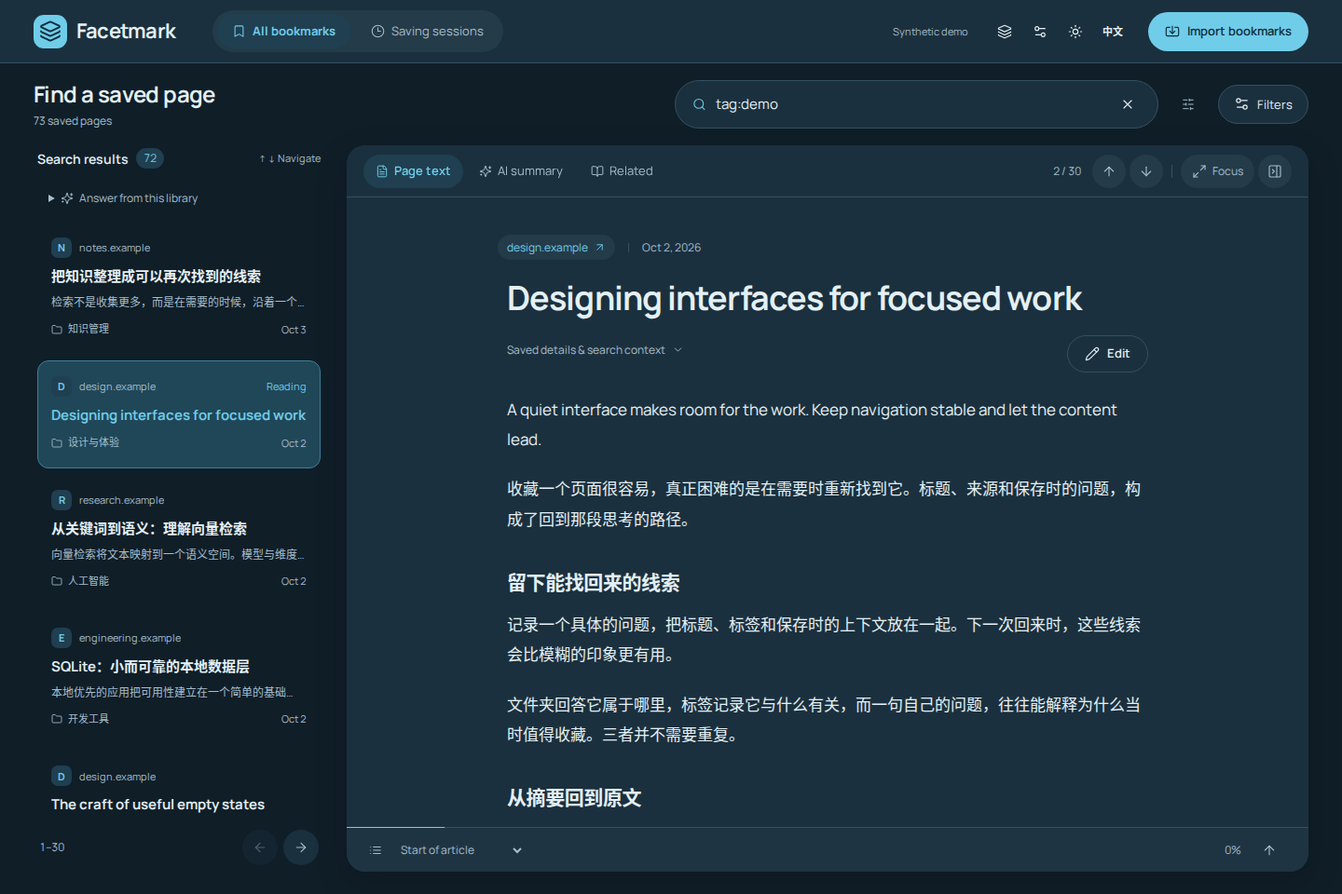
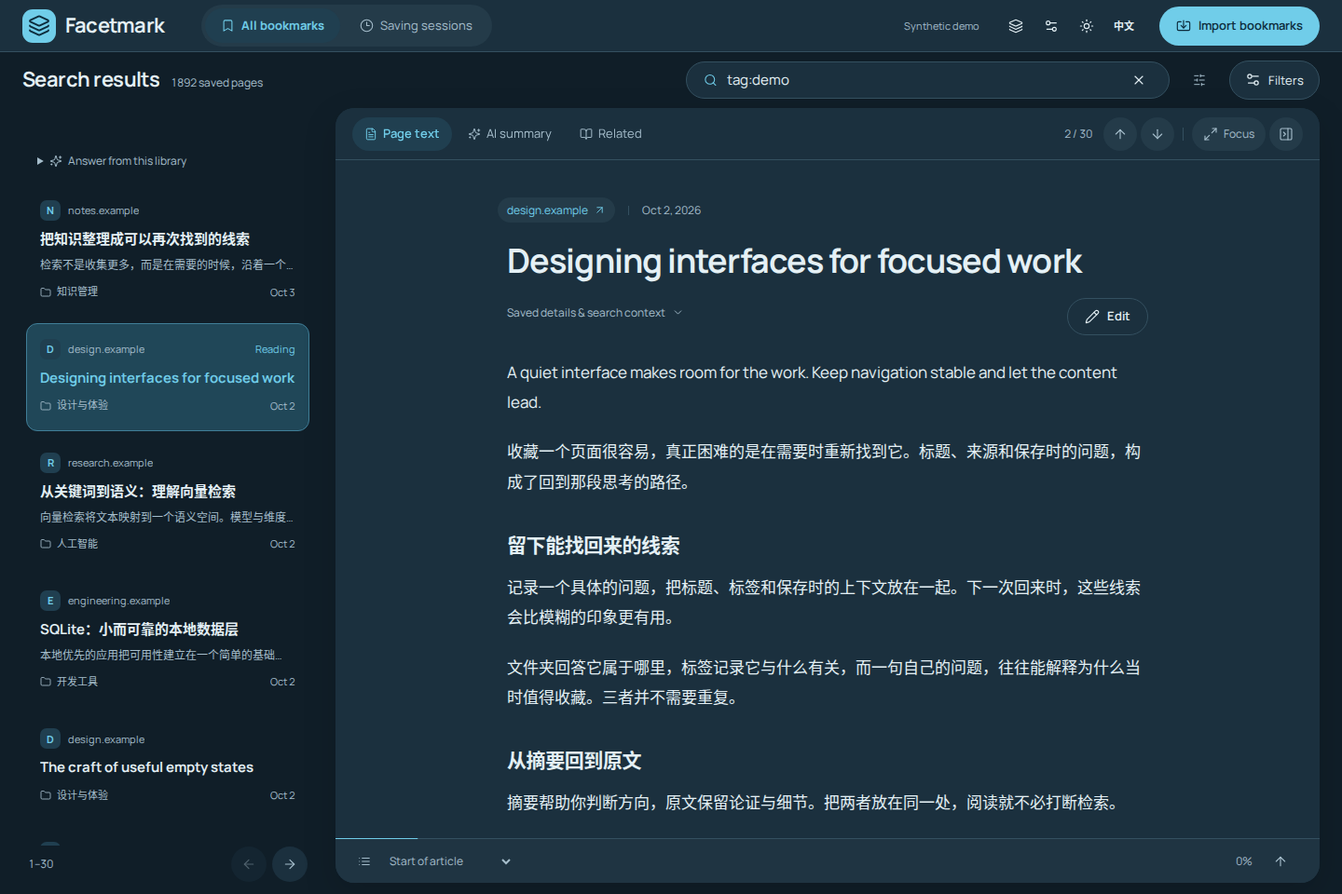
docs: record verified collection fixes and refresh previews [skip ci]

diff --git a/docs/desktop-validation.md b/docs/desktop-validation.md
@@ -1,6 +1,114 @@
 # Desktop experience validation
 
-## 2026-10-08: collection management, reading tasks and shared-folder sync (current)
+## 2026-10-10: large-collection usability correction
+
+The user rejected the previous collection layout: oversized upper controls left
+only about half the window for bookmarks, and horizontal categories were
+inconvenient with a mouse. Its historical review verdict is not current acceptance.
+
+Current application and browser-test source: `09ab0332c5f9ec40627afc7f48f3da2ce0b8b36b`.
+The correction adds compact upper controls, a complete searchable vertical
+folder/tag/site directory, explicit category pagination and persistent card/list
+choice. Search reaches the whole category directory, with exact matches before
+prefixes and substrings, stable ordering and pages of 50. It fixes repeated-category/
+query cancellation, real scroll/page/reader reset on scope changes and stale-result
+selection/export during loading or failure. Repeated Enter and IME completion
+settle correctly; opening and returning from the same result retain browsing context.
+
+All final runs completed on 2026-10-09 against the source above:
+
+- [Experience 37927920369](https://github.com/88lin/facetmark/actions/runs/37927920369):
+  all three jobs passed, including **37/37 Playwright**, **2003 Python passed /
+  1 skipped**, Ruff, TypeScript/Vite, wheel/sdist resources, Docker and extension.
+- [CI 37927928123](https://github.com/88lin/facetmark/actions/runs/37927928123):
+  **all ten jobs passed** across Linux/Windows × Python 3.10/3.12, browser,
+  web UI, extension, Karakeep contract, wheel and Docker. The real MCP stdio
+  check passed **22/22**.
+- [Visual artifact 11615446805](https://github.com/88lin/facetmark/actions/runs/37927920369/artifacts/11615446805):
+  **51 actual captures**, a **14.24-second H.264 recording**, WEBM, font/scroll
+  diagnostics and exact source/run provenance. All 51 capture hashes were verified.
+  Local evidence: `.desktop-build/collection-verified`. The four landing screenshots
+  retain the source raster chunks and carry embedded origin metadata.
+- [Windows 37927920467](https://github.com/88lin/facetmark/actions/runs/37927920467):
+  all checks passed. Installation began with WebView2 absent and installer networking
+  blocked. The installed WebView imported synthetic HTML, searched, displayed the
+  correct missing-body reader state and preserved the query on return. Same-version
+  reinstall, uninstall data retention, parent-process cleanup and isolated frozen
+  service checks also passed. Three installed 1028×749 screenshots were inspected;
+  diagnostics identify `09ab033`.
+  [Unsigned x64 installer](https://github.com/88lin/facetmark/actions/runs/37927920467/artifacts/11615112516)
+  and [small installed evidence](https://github.com/88lin/facetmark/actions/runs/37927920467/artifacts/11614867739)
+  are available. The installer itself is **279209682 bytes** and was not downloaded.
+  Valid local installed evidence is `.desktop-build/collection-windows-37927920467`;
+  the older `.desktop-build/collection-windows` directory is mixed/stale and excluded.
+
+Final CI Python matrix (all jobs passed; skips vary by platform/runtime):
+
+| Platform | Python | Passed | Skipped |
+| --- | --- | ---: | ---: |
+| Linux | 3.10 | 2002 | 2 |
+| Linux | 3.12 | 2003 | 1 |
+| Windows | 3.10 | 1972 | 32 |
+| Windows | 3.12 | 1973 | 31 |
+
+The synthetic corpus contains **1892 bookmarks and 295 folders**, including long
+names, and saved pages with and without body text. The six added browser scenarios
+cover compact short-window layouts, complete category access by mouse and keyboard,
+search beyond the former 200-category limit, card/list persistence, slow/repeated
+queries, failed scopes, export safety and reading return context. Existing management,
+sync, model, import, reading and theme/language tests remain in the 37-test suite.
+
+Measured card view from `collection-density.json`; counts exclude partly visible cards:
+
+| Viewport | List top | First card top | List height | Height share | Fully visible cards |
+| --- | ---: | ---: | ---: | ---: | ---: |
+| 1440×960 | 160px | 163px | 748px | 77.9% | 16 |
+| 1366×768 | 160px | 163px | 556px | 72.4% | 9 |
+| 1280×600 | 160px | 163px | 388px | 64.7% | 6 |
+| 1024×749 | 160px | 163px | 537px | 71.7% | 6 |
+| 390×844 | 215.7px | 218.7px | 580.3px | 68.8% | 3 |
+
+No tested viewport has horizontal document overflow. Desktop and mobile card/list,
+category search/drawer, reader and language/theme captures were inspected. Measurements
+describe this synthetic corpus and viewport set, not every title length or real library.
+
+The first browser pass on `c4d5886` passed 34/37: exact category names were buried
+after 50 substring matches. `09ab033` fixes relevance ordering and passes the same
+assertions. That superseded run and `.desktop-build/collection-first-review` are not
+final evidence. Local targeted backend verification passed 25 workbench tests and Ruff.
+After the screenshot refresh, both lightweight landing image-reference checks passed.
+
+The fresh independent rejection review identified six material issues: upper-space
+budget, complete category access, repeated-request correctness, scope scroll/reader
+reset, stale-result action safety, and realistic data/current documentation. The
+final scored confirmation marked **all six resolved**, with **remaining clear** and
+`disposition: ship`, limited to those six corrections. No material regressions from
+the fix batch were observed. The reviewer directly inspected 12 original screenshots
+(short desktop/mobile, category/list, keyboard, reader, dark, loading and failure),
+provenance, density/scroll records, related source/tests, the Experience log and
+Windows reader/lifecycle JSON. It did not run the application or tests itself.
+
+The specialized review role was unavailable; the original confirmation and its
+replacement initially failed on model rate limits. A general independent replacement
+reviewer completed this confirmation after recovery. The verdict does not constitute
+user aesthetic acceptance. No approved pixel comp or external QUALITY BAR was
+supplied; GithubStarsManager is an interface reference only.
+
+DESIGN.md, the surface contract, management instructions and screenshot provenance
+track the corrected interface and final evidence. Documentation/image-only commits
+after `09ab033` do not alter the tested application or test source.
+
+Builds, browsers, packaging and installation ran in Actions. Local work was source
+editing, lightweight checks and small evidence retrieval; no personal profile,
+real bookmarks or local installer execution was used. Actual cloud-drive transport,
+external model services and Windows 10/11 hardware remain outside verification.
+The unsigned preview uses manual updates; hosted Windows Server checks do not
+certify signing trust, ordinary non-administrator behavior, cross-version upgrades
+or physical whole-machine disconnection. Artifacts expire after 14 days. The
+[existing PR #44](https://github.com/88lin/facetmark/pull/44) stays a draft, without
+main merge, release or Pages deployment. Earlier sections are historical.
+
+## 2026-10-08: collection management, reading tasks and shared-folder sync (historical)
 
 Application source: `33ff0df5340b31061434deb7e341c612e22feae1`.
 Final browser/test source: `f757f33e00a0a3582e4b656865bddd51d3d4f445`.

diff --git a/.impeccable/surfaces/frontend.md b/.impeccable/surfaces/frontend.md
@@ -27,7 +27,7 @@ OWN-WORLD: Pure white, pale blue workspace, deep blue ink, lake-blue interaction
 
 FIRST VIEWPORT: A 56px app header and 60px desktop collection toolbar contain the 22px title/count and 40px search. A 208px category directory appears from 960px, beside an auto-fill grid of at least 270px cards with 12px gaps and 14px padding. Below 960px categories are in the filter drawer. Creation, selection, organization, export and card/list switching share a compact action row. Mobile title/search stack with 12px outer space. The initial collection must leave at least 63% of a short desktop viewport, and 58% of the tested mobile viewport, for the scrolling bookmark list. Test 1366×768, 1280×600 and 390×844 with 1892 synthetic records.
 
-CATEGORIES: Folders, tags and sites share a searchable directory. Real counts, wrapping long names, a native vertical scrollbar, mouse-wheel access, keyboard focus and explicit pagination of 50 make all categories reachable. The search reaches beyond the former 200-category overview limit. Loading, empty and failure/retry states are visible. Category changes reset the real results scroll/page and close old reading content. Repeated selection cannot strand a cancelled request.
+CATEGORIES: Folders, tags and sites share a searchable directory. Real counts, wrapping long names, a native vertical scrollbar, mouse-wheel access, keyboard focus and explicit pagination of 50 make all categories reachable. The search reaches beyond the former 200-category overview limit and ranks exact matches first, followed by prefixes and other literal substring matches, with stable alphabetical ordering within each group. Loading, empty and failure/retry states are visible. Category changes reset the real results scroll/page and close old reading content. Repeated selection cannot strand a cancelled request.
 
 RESULT STATES: New queries/categories are associated with their exact loaded result context. Old rows cannot appear selectable or exportable under a new category while loading or after failure. Repeated Enter and IME completion reliably settle. Preserve query, category, page, real list position and focus when opening/returning from a result. Persist card/list preference across reloads.
 
@@ -41,4 +41,10 @@ FINISH: unreviewed and undocumented is unfinished; this build ends with the fini
 
 VERIFY: Use synthetic data and GitHub Actions for builds, browsers, packaging and installation. Local work is source editing, lightweight checks and small evidence retrieval. Verify short windows, many/long categories, mouse and keyboard operation, slow/repeated queries, failed new scopes, scoped export safety, card/list persistence and reader return context. Associate evidence with exact source, perform one batched inspection and a bounded independent confirmation. Never use personal browser profiles or actual bookmarks.
 
-EVIDENCE: Implementation and cloud validation are in progress. The fresh rejection review returned fix with six items: top-space budget, complete category access, repeated-request correctness, scroll/reader scope reset, stale-result action safety and realistic data/documentation. Earlier collection-management evidence (application 33ff0df5340b31061434deb7e341c612e22feae1, tests f757f33e00a0a3582e4b656865bddd51d3d4f445, Experience 37774845284) describes the rejected layout only.
+EVIDENCE: Documentation confirmed on 2026-10-10; cloud validation ran on 2026-10-09 against application and browser-test source 09ab0332c5f9ec40627afc7f48f3da2ce0b8b36b. `.desktop-build/collection-verified/provenance.json` identifies 51 captures and a 14.24-second reading recording, using 1892 synthetic bookmarks and 295 folders. The current collection-1366x768, collection-390x844 and collection-category-search captures were inspected for this documentation pass.
+
+MEASUREMENTS: `.desktop-build/collection-verified/collection-density.json` records 1366×768: first card y=163, list height 556px (72.4%), 9 complete cards; 1280×600: y=163, height 388px (64.7%), 6 cards; 390×844: y=218.6875, height 580.3125px (68.8%), 3 cards. The 1440×960 and 1024×749 views show 16 and 6 complete cards respectively. None of the five measured views has horizontal document overflow. These are initial unfiltered-view measurements, not minimums for every search or content state.
+
+VALIDATION: [Experience 37927920369](https://github.com/88lin/facetmark/actions/runs/37927920369) passed 37 browser tests and 2003 Python tests, with 1 Python skip. [CI 37927928123](https://github.com/88lin/facetmark/actions/runs/37927928123) passed all 10 jobs, including MCP 22/22. [Windows 37927920467](https://github.com/88lin/facetmark/actions/runs/37927920467) passed offline installation, actual WebView rendering, same-version reinstall, retained user data and process cleanup; its small evidence bundle is `.desktop-build/collection-windows-37927920467`. Hosted Windows Server smoke does not certify Windows 10/11.
+
+REVIEW STATUS: The rejection review returned fix with six items: top-space budget, complete category access, repeated-request correctness, scroll/reader scope reset, stale-result action safety and realistic data/documentation. Implementation, cloud validation and this bounded documentation confirmation are complete. Final independent confirmation returned `disposition: ship`: all six fixes are resolved, remaining findings are clear, and no material regression was identified within that scope. The original reviewer and an earlier replacement were rate-limited; a general independent substitute completed the confirmation because the dedicated role was unavailable. It inspected 12 raw captures, provenance, density and scroll evidence, relevant source/tests, the Experience log and Windows JSON without running the application or tests itself. This verdict covers the six fixes and does not imply the user's visual approval. Earlier collection-management evidence (application 33ff0df5340b31061434deb7e341c612e22feae1, tests f757f33e00a0a3582e4b656865bddd51d3d4f445, Experience 37774845284) and its historical `ship` describe the rejected layout only.

diff --git a/.impeccable/workbench-direction.md b/.impeccable/workbench-direction.md
@@ -10,7 +10,7 @@ OWN-WORLD: Pure white, pale blue workspace, deep blue ink, lake-blue interaction
 
 FIRST VIEWPORT: A 56px app header and 60px desktop collection toolbar contain the 22px title/count and 40px search. A 208px category directory appears from 960px, beside an auto-fill grid of at least 270px cards with 12px gaps and 14px padding. Below 960px categories are in the filter drawer. Creation, selection, organization, export and card/list switching share a compact action row. Mobile title/search stack with 12px outer space. The initial collection must leave at least 63% of a short desktop viewport, and 58% of the tested mobile viewport, for the scrolling bookmark list. Test 1366×768, 1280×600 and 390×844 with 1892 synthetic records.
 
-CATEGORIES: Folders, tags and sites share a searchable directory. Real counts, wrapping long names, a native vertical scrollbar, mouse-wheel access, keyboard focus and explicit pagination of 50 make all categories reachable. The search reaches beyond the former 200-category overview limit. Loading, empty and failure/retry states are visible. Category changes reset the real results scroll/page and close old reading content. Repeated selection cannot strand a cancelled request.
+CATEGORIES: Folders, tags and sites share a searchable directory. Real counts, wrapping long names, a native vertical scrollbar, mouse-wheel access, keyboard focus and explicit pagination of 50 make all categories reachable. The search reaches beyond the former 200-category overview limit and ranks exact matches first, followed by prefixes and other literal substring matches, with stable alphabetical ordering within each group. Loading, empty and failure/retry states are visible. Category changes reset the real results scroll/page and close old reading content. Repeated selection cannot strand a cancelled request.
 
 RESULT STATES: New queries/categories are associated with their exact loaded result context. Old rows cannot appear selectable or exportable under a new category while loading or after failure. Repeated Enter and IME completion reliably settle. Preserve query, category, page, real list position and focus when opening/returning from a result. Persist card/list preference across reloads.
 
@@ -24,4 +24,10 @@ FINISH: unreviewed and undocumented is unfinished; this build ends with the fini
 
 VERIFY: Use synthetic data and GitHub Actions for builds, browsers, packaging and installation. Local work is source editing, lightweight checks and small evidence retrieval. Verify short windows, many/long categories, mouse and keyboard operation, slow/repeated queries, failed new scopes, scoped export safety, card/list persistence and reader return context. Associate evidence with exact source, perform one batched inspection and a bounded independent confirmation. Never use personal browser profiles or actual bookmarks.
 
-EVIDENCE: Implementation and cloud validation are in progress. The fresh rejection review returned fix with six items: top-space budget, complete category access, repeated-request correctness, scroll/reader scope reset, stale-result action safety and realistic data/documentation. Earlier collection-management evidence (application 33ff0df5340b31061434deb7e341c612e22feae1, tests f757f33e00a0a3582e4b656865bddd51d3d4f445, Experience 37774845284) describes the rejected layout only.
+EVIDENCE: Documentation confirmed on 2026-10-10; cloud validation ran on 2026-10-09 against application and browser-test source 09ab0332c5f9ec40627afc7f48f3da2ce0b8b36b. `.desktop-build/collection-verified/provenance.json` identifies 51 captures and a 14.24-second reading recording, using 1892 synthetic bookmarks and 295 folders. The current collection-1366x768, collection-390x844 and collection-category-search captures were inspected for this documentation pass.
+
+MEASUREMENTS: `.desktop-build/collection-verified/collection-density.json` records 1366×768: first card y=163, list height 556px (72.4%), 9 complete cards; 1280×600: y=163, height 388px (64.7%), 6 cards; 390×844: y=218.6875, height 580.3125px (68.8%), 3 cards. The 1440×960 and 1024×749 views show 16 and 6 complete cards respectively. None of the five measured views has horizontal document overflow. These are initial unfiltered-view measurements, not minimums for every search or content state.
+
+VALIDATION: [Experience 37927920369](https://github.com/88lin/facetmark/actions/runs/37927920369) passed 37 browser tests and 2003 Python tests, with 1 Python skip. [CI 37927928123](https://github.com/88lin/facetmark/actions/runs/37927928123) passed all 10 jobs, including MCP 22/22. [Windows 37927920467](https://github.com/88lin/facetmark/actions/runs/37927920467) passed offline installation, actual WebView rendering, same-version reinstall, retained user data and process cleanup; its small evidence bundle is `.desktop-build/collection-windows-37927920467`. Hosted Windows Server smoke does not certify Windows 10/11.
+
+REVIEW STATUS: The rejection review returned fix with six items: top-space budget, complete category access, repeated-request correctness, scroll/reader scope reset, stale-result action safety and realistic data/documentation. Implementation, cloud validation and this bounded documentation confirmation are complete. Final independent confirmation returned `disposition: ship`: all six fixes are resolved, remaining findings are clear, and no material regression was identified within that scope. The original reviewer and an earlier replacement were rate-limited; a general independent substitute completed the confirmation because the dedicated role was unavailable. It inspected 12 raw captures, provenance, density and scroll evidence, relevant source/tests, the Experience log and Windows JSON without running the application or tests itself. This verdict covers the six fixes and does not imply the user's visual approval. Earlier collection-management evidence (application 33ff0df5340b31061434deb7e341c612e22feae1, tests f757f33e00a0a3582e4b656865bddd51d3d4f445, Experience 37774845284) and its historical `ship` describe the rejected layout only.

diff --git a/DESIGN.md b/DESIGN.md
@@ -298,7 +298,9 @@ Selecting a bookmark replaces the category directory with a compact supporting i
 - The bounded reader retains query, filters, page, collection position and return focus.
 - Changing search/category clears the old reading context and prevents selection or export of stale results.
 
-The previous large-masthead layout and its historical `ship` verdict were rejected by the user. This contract supersedes those layout rules. The user-supplied interface reference is [GithubStarsManager](https://github.com/AmintaCCCP/GithubStarsManager), inspected at `6d1dd80700b0ee717f79a5da7d0137f32afc91b7`; only its compact controls and accessible category organization inform this revision. No reference code or screenshots ship in Facetmark. Current runtime evidence is pending the cloud validation pass; earlier captures do not verify this layout.
+The previous large-masthead layout and its historical `ship` verdict were rejected by the user. This contract supersedes those layout rules. The user-supplied interface reference is [GithubStarsManager](https://github.com/AmintaCCCP/GithubStarsManager), inspected at `6d1dd80700b0ee717f79a5da7d0137f32afc91b7`; only its compact controls and accessible category organization inform this revision. It is an interface reference, not an approved pixel comp. No reference code or screenshots ship in Facetmark.
+
+This documentation was confirmed on 2026-10-10 against source `09ab0332c5f9ec40627afc7f48f3da2ce0b8b36b` and the synthetic-only cloud evidence captured on 2026-10-09. `.desktop-build/collection-verified/provenance.json` records 51 captures and the 14.24-second reading recording from [Experience 37927920369](https://github.com/88lin/facetmark/actions/runs/37927920369). The current desktop collection, mobile collection and exact-category-search captures match the compact toolbar, source-first cards and vertical directory described here. Cloud validation has passed. The final independent confirmation returned `disposition: ship`, with all six requested fixes resolved and no material regression identified in that scope. The original reviewer and an earlier replacement were rate-limited; a general independent substitute completed the confirmation because the dedicated role was unavailable. This verdict covers those six fixes and does not imply the user's visual approval. Earlier captures do not verify this revision.
 
 
 ## Colors
@@ -345,6 +347,16 @@ From (960px), an independently scrolling category directory (208px) sits left of
 
 Cards use `repeat(auto-fill, minmax(270px, 1fr))`, (12px) gaps, padding (14px), corners (12px) and content-driven row height. A row aligns its cards without a fixed minimum height or compulsory excerpt. The independently scrolling result list uses padding (3px 4px 8px) above a pagination footer (40px). List view replaces the card grid with ruled rows and persists across reloads.
 
+The final synthetic collection contains 1892 bookmarks and 295 folders. `collection-density.json` in the evidence directory records the following initial unfiltered view; the percentages describe available result-list height, while the last column counts complete cards. All five captures have no horizontal document overflow.
+
+| Viewport | First card top | Result-list height | Viewport share | Complete cards |
+| --- | --- | --- | --- | --- |
+| 1440 × 960 | 163px | 748px | 77.9% | 16 |
+| 1366 × 768 | 163px | 556px | 72.4% | 9 |
+| 1280 × 600 | 163px | 388px | 64.7% | 6 |
+| 1024 × 749 | 163px | 537px | 71.7% | 6 |
+| 390 × 844 | 218.6875px | 580.3125px | 68.8% | 3 |
+
 Selection hides the category directory and contracts the desktop index to (312px), beside a gutter (24px) and flexible reader. Index entries use padding (16px 14px), lower spacing (6px), panel corners and transparent default fill/border; selection restores a blue fill/edge. The toolbar remains (60px), search/control-group basis (680px), search height (40px). No empty reader column is reserved. Opening/returning preserve the real list scroll; choosing a different category/query resets scroll and pagination and closes the old reader.
 
 Reader tabs/actions share a strip (56px). Article width is capped at (780px), including gutters; title padding is (40px 46px 0), body padding (24px 46px 44px), and position footer height (48px). Source lower space is (16px); title lower margin is (14px). Controls remain outside the article scroller.
@@ -379,7 +391,7 @@ Focus uses a blue outline (2px, offset 3px); result cards use inset offset (-3px
 
 ## Shapes
 
-Open cards/import targets use (16px) corners, compact index entries (12px), reader/support surfaces (20px). Buttons, search, navigation, reader tabs, folder/filter controls and article tags have true pill ends (999px); icon-only actions are circular (50%). Source badges are rounded tiles: (30px) with (10px) corners in cards, (22px) with (7px) corners in the index.
+Open cards and compact index entries use (12px) corners, import targets (16px), reader/support surfaces (20px). Buttons, search, header navigation, reader tabs, category-type controls, filter chips and article tags have true pill ends (999px); category options use (8px) corners, and icon-only actions are circular (50%). Source badges are rounded tiles: (24px) with (8px) corners in cards, (22px) with (7px) corners in the index.
 
 Fields, notices, diagnostics and session rows retain (10px); brand tile (11px); apply/consent/stage panels (12px). Query popup corners are (14px), suggestion rows (10px), category icons circular (30px), and keyboard hints (4px). Chapter links use (4px) corners and a current marker (2px by 16px). The modal reader remains a square full-viewport exception.
 

diff --git a/docs/desktop-handoff.md b/docs/desktop-handoff.md
@@ -1,6 +1,58 @@
 # Facetmark 桌面化与体验升级交接
 
-## 2026-10-08 收藏管理、独立阅读任务与共享文件夹同步（当前）
+## 2026-10-10 大书库可用性修正
+
+用户明确否定上一版：顶部占用过多空间，普通鼠标难以操作横向分类，并存在大量交互问题。
+此前视觉审阅的 ship 仅作历史记录，不能视为当前验收。
+
+当前应用及浏览器测试源码：`09ab0332c5f9ec40627afc7f48f3da2ce0b8b36b`。
+已压缩标题／搜索／工具栏，增加可搜索、纵向滚动、明确分页的完整分类目录，
+以及保存偏好的卡片／列表切换。文件夹、标签和站点均可用鼠标滚轮、Tab／Enter 操作；
+分类搜索覆盖整个书库，精确名称优先于前缀和部分匹配，每页显示 50 项。
+修正重复分类／查询取消请求后卡住、切换范围不重置真实滚动与阅读内容，
+以及新范围加载／失败时旧结果仍可被选择或导出的问题。
+
+使用 1892 条合成收藏和 295 个文件夹（含长名称）验证。首屏实测如下，均无页面横向溢出；
+数量表示完全落在可见列表区域内的卡片，不包括只露出一部分的卡片。
+
+| 窗口 | 首张卡片距窗口顶部 | 可滚动列表高度 | 完整可见卡片 |
+| --- | ---: | ---: | ---: |
+| 1440×960 | 163px | 748px | 16 |
+| 1366×768 | 163px | 556px（72.4%） | 9 |
+| 1280×600 | 163px | 388px（64.7%） | 6 |
+| 1024×749 | 163px | 537px | 6 |
+| 390×844 | 218.7px | 580.3px（68.8%） | 3 |
+
+2026-10-09 的最终云端验证均对应上述源码：
+
+- [Experience 37927920369](https://github.com/88lin/facetmark/actions/runs/37927920369)：
+  37/37 浏览器测试、2003 Python / 1 skipped、Ruff、前端构建、分发资源、Docker 和扩展通过。
+- [CI 37927928123](https://github.com/88lin/facetmark/actions/runs/37927928123)：
+  十项任务全部通过，含 Linux／Windows × Python 3.10／3.12 和 MCP stdio 22/22。
+- [视觉证据 11615446805](https://github.com/88lin/facetmark/actions/runs/37927920369/artifacts/11615446805)：
+  51 张实际截图、14.24 秒 MP4、WEBM 及诊断。已核对全部截图哈希；
+  小型本地证据在 `.desktop-build/collection-verified`，四张项目展示图已同步来源。
+- [Windows 37927920467](https://github.com/88lin/facetmark/actions/runs/37927920467)：
+  运行时初始缺失、安装器网络被阻断的离线安装，实际 WebView 导入／检索／正文缺失提示／
+  返回保留查询，同版本重装、卸载保留数据、父进程清理及冻结服务检查全部通过。
+  [未签名 x64 安装包](https://github.com/88lin/facetmark/actions/runs/37927920467/artifacts/11615112516)
+  本体为 279209682 字节，未下载到本机。
+  [小型安装证据](https://github.com/88lin/facetmark/actions/runs/37927920467/artifacts/11614867739)
+  在 `.desktop-build/collection-windows-37927920467`；三张安装后截图已检查，诊断匹配当前源码。
+
+第一轮云端浏览器检查暴露“精确分类被大量部分匹配挤到后页”的实际问题；
+最终源码修正排序后，同一批测试全部通过。独立设计确认将六项问题全部判为 resolved，
+remaining clear，结论为 ship；仅覆盖这六项修正，不代表用户已经接受视觉效果。
+原确认及替代代理此前遭遇限流，本次由通用独立替代代理完成（专用角色不可用），
+检查了 12 张原始截图、相关源码和测试证据；未自行运行本机应用或测试。
+DESIGN.md、使用说明与截图来源记录已同步实际结果。
+
+所有构建、浏览器、打包和安装测试在 Actions 执行；本机仅编辑源码、做轻量检查并取回小型证据。
+本轮不接触真实书签或个人浏览器资料。真实云盘传输、外部模型和 Windows 10/11 真机仍未验证；
+安装包为未签名、手动更新的预览版。继续使用测试分支与 [draft PR #44](https://github.com/88lin/facetmark/pull/44)，
+不合并、不发布正式版本、不部署 Pages。下方功能交付与截图均为历史记录。
+
+## 2026-10-08 收藏管理、独立阅读任务与共享文件夹同步（历史）
 
 已完成用户“继续全部完善吧”及明确选择的共享文件夹同步方案。沿用纯白／湖蓝、
 胶囊控件与收藏优先布局；本轮扩展功能，不替换已选定的视觉方向。

diff --git a/docs/landing/assets/workbench-provenance.md b/docs/landing/assets/workbench-provenance.md
@@ -4,19 +4,19 @@ These are actual Facetmark shared React /app screenshots, captured by Playwright
 on a disposable GitHub Actions runner. Repository synthetic data only; no personal
 bookmarks, browser profiles, generated mockups or fabricated service states.
 
-Source: https://github.com/88lin/facetmark/actions/runs/37774845284
+Source: https://github.com/88lin/facetmark/actions/runs/37927920369
 
-Capture commit: `f757f33e00a0a3582e4b656865bddd51d3d4f445`
+Capture and application commit: `09ab0332c5f9ec40627afc7f48f3da2ce0b8b36b`
 
-Application commit: `33ff0df5340b31061434deb7e341c612e22feae1`.
-The capture commit changes only a browser test assertion; application source is identical.
-
-This batch extends the user-pinned white/lake-blue collection and focused reader
-with bookmark management, scoped exports, independent reading tasks and shared-folder
-metadata synchronization. The collection masthead, pill search, source-first cards,
-compact supporting index, Manrope, cmdk suggestions and real-heading chapter rail remain.
-All 31 browser tests passed. Later documentation and image metadata changes do not
-alter the application source. Earlier visual verdicts apply to earlier revisions.
+This batch replaces the rejected large collection masthead and horizontal folder
+shortcuts with compact upper controls and a complete searchable vertical category
+directory. It retains the user-pinned white/lake-blue palette, capsule controls,
+source-first cards, focused reader, Manrope, cmdk suggestions and real-heading rail.
+The directory supports ordinary mouse/keyboard access, exact-match-first search and
+explicit pagination; card/list preference persists. Bookmark management, scoped exports,
+independent reading tasks and shared-folder metadata synchronization remain available.
+All 37 browser tests passed. Subsequent documentation and image changes do not alter
+the tested application. Earlier visual verdicts do not approve this revision.
 
 | Website asset | Source artifact file |
 | --- | --- |
@@ -25,15 +25,21 @@ alter the application source. Earlier visual verdicts apply to earlier revisions
 | workbench-zh-light.png | zh-light-1440.png |
 | workbench-zh-dark.png | zh-dark-1440.png |
 
-Viewport: 1440 × 960. Artifact: `facetmark-visual-evidence` (ID `11549727814`).
+Viewport: 1440 × 960. Artifact: `facetmark-visual-evidence` (ID `11615446805`).
 Each PNG embeds the source commit/run, synthetic-data origin and Impeccable origin
 metadata. The artifact's `provenance.json` records dimensions and SHA-256 hashes.
 All four copied PNGs retain identical raster chunks; only provenance metadata
-was added. All 42 capture hashes match the manifest. The artifact also contains a
-13.64-second interaction recording, desktop/mobile management and synchronization
-states, narrow/dark/long-title/loading/empty/failure cases and font/scroll diagnostics.
+was added. All 51 capture hashes match the manifest. The artifact also contains a
+14.24-second interaction recording, card/list views, full category search and narrow
+drawer states, desktop/mobile management and synchronization, dark/long-title/loading/
+empty/failure cases, viewport density measurements and font/scroll diagnostics.
 
-Small local evidence: `.desktop-build/library-verified`. These files replace the
-previous collection-redesign screenshots; prior validation is historical, not acceptance
-of the current visual design. Eighteen untouched legacy landing rasters are
-outside this screenshot refresh and retain their existing metadata.
+Small local evidence: `.desktop-build/collection-verified`. The density captures
+use 1892 synthetic bookmarks and 295 folders. At 1366×768, the first card begins
+163px below the viewport top and nine cards are fully visible; the measured list
+occupies 556px (72.4%) of the viewport height. No tested viewport has horizontal
+document overflow. See `collection-density.json` for all five window sizes.
+
+These files replace the previous collection screenshots; prior validation is
+historical, not acceptance of the current visual design. Eighteen untouched legacy
+landing rasters are outside this refresh and retain their existing metadata.

diff --git a/docs/library-management.md b/docs/library-management.md
@@ -8,7 +8,8 @@
 
 桌面收藏页左侧按名称列出分类，可切换文件夹、标签或站点，用普通鼠标滚轮上下浏览。
 每次显示 50 个分类，底部的 **显示更多分类** 继续加载；**查找分类** 搜索整个书库的分类，
-不局限于已显示的项目。窄窗口通过 **筛选** 打开同样的列表。长名称可换行，鼠标悬停也可看完整名称。
+不局限于已显示的项目；输入完整名称时，精确匹配排在最前面。窄窗口通过 **筛选** 打开同样的列表。
+长名称可换行，鼠标悬停也可看完整名称；也可用 Tab 移动焦点、Enter 选择。
 
 收藏工具行可切换卡片和列表视图，显示方式会保存在本机。切换搜索或分类会回到第一页并关闭
 原来的阅读器；单纯打开收藏再返回仍保留浏览位置。新范围加载期间，本页选择和导出暂不可用，
